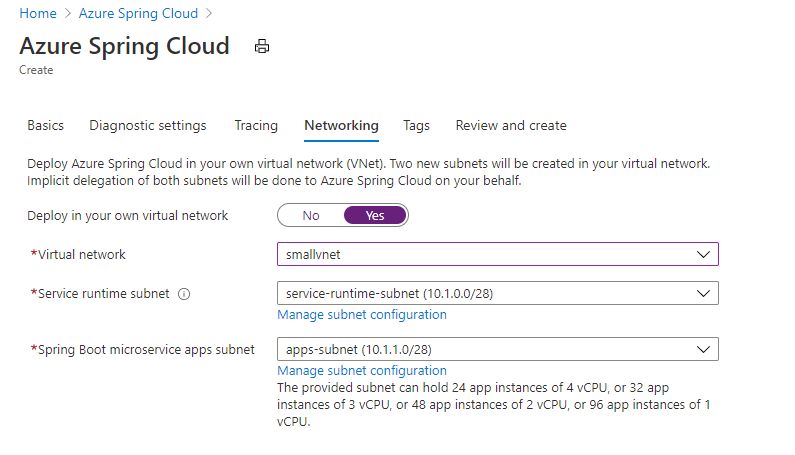
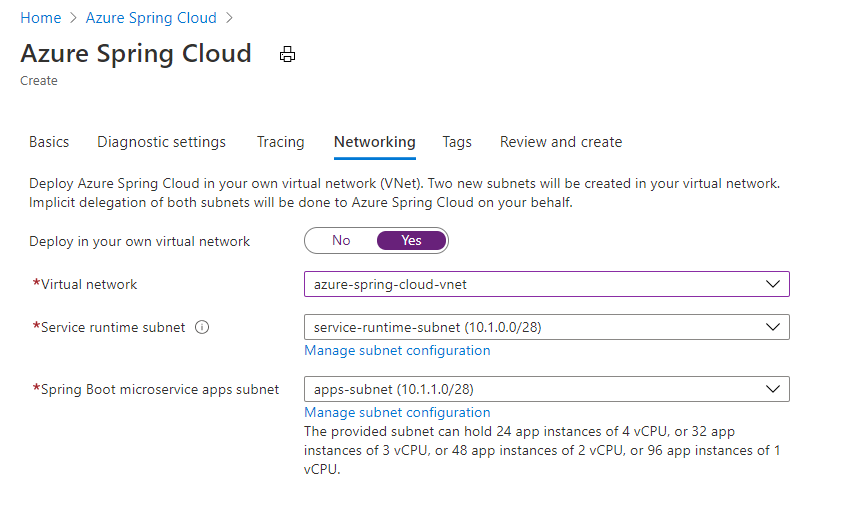
merge smaller subnet doc together with existing one

diff --git a/01-deploy-azure-spring-cloud-in-your-vnet.md b/01-deploy-azure-spring-cloud-in-your-vnet.md
@@ -29,7 +29,7 @@ The virtual network that you deploy your Azure Spring Cloud service instance to 
 
 - **Subnets**: The virtual network must include two subnets dedicated to an Azure Spring Cloud service instance: one for Service Runtime and one for your Spring Boot Microservice Applications. There is a one-to-one relationship between these subnets and an Azure Spring Cloud service instance. You cannot share multiple service instances across a single subnet. You must use new subnets for each service instances you deploy.
 
-- **Address space**: One CIDR block up to /28 for Service Runtime subnet and another CIDR block up to /24 for Spring Boot Microservice Applications subnet.
+- **Address space**: CIDR blocks up to **/28** for both Service Runtime subnet and Spring Boot Microservice Applications subnet.
 
 - **Route table**: The subnets must not have existing route table associated.
 
@@ -50,9 +50,9 @@ If you already have a virtual network to host Azure Spring Cloud service instanc
 
 3. Select **Next: IP Addresses**, and for **IPv4 address space**, enter 10.1.0.0/16.
 
-4. Select **Add subnet**, then enter *service-runtime-subnet* for Subnet name and *10.1.0.0/24* for **Subnet address range**, and select **Add**.
+4. Select **Add subnet**, then enter *service-runtime-subnet* for Subnet name and *10.1.0.0/28* for **Subnet address range**, and select **Add**.
 
-5. Select **Add subnet** again, then enter *apps-subnet* for Subnet name and *10.1.1.0/24* for **Subnet address range**, and select **Add**.
+5. Select **Add subnet** again, then enter *apps-subnet* for Subnet name and *10.1.1.0/28* for **Subnet address range**, and select **Add**.
 
 6. Select **Review + create**. Leave the rest as default and select **Create**.
 
@@ -109,13 +109,13 @@ az role assignment create \
     |Service runtime subnet                 |Select *service-runtime-subnet*                   |
     |Spring Boot microservice apps subnet   |Select *apps-subnet*                              |
 
-    ![](images/manage-virtual-network/creation-blade-networking-tab.png)
+    ![](images/manage-virtual-network/create-azure-spring-cloud-with-smaller-subnet-vnet.png)
 
 6. Select **Review and create**.
 
 7. Verify your specifications, and click **Create**.
 
-    ![](images/manage-virtual-network/creation-blade-verification.png)
+    ![](images/manage-virtual-network/create-with-smaller-subnet-validation.png)
 
 After the deployment, two additional resource groups will be created in your subscription, to host the network resources for the Azure Spring Cloud service instance.
 
@@ -132,6 +132,18 @@ Those network resources are connected to your virtual network created above.
   ![](images/manage-virtual-network/vnet-with-connected-device.png)
 
 **Important:** Those resource groups are fully managed by Azure Spring Cloud service. Please do **NOT** manually delete or modify any resource inside.
+
+## Limitations
+
+Small subnet range saves IP addresses, but brings limitations to the maximum number of App Instances the Azure Spring Cloud can hold. 
+
+| CIDR | Total IPs | Available IPs | Maximum app instances                                        |
+| ---- | --------- | ------------- | ------------------------------------------------------------ |
+| /28  | 16        | 8             | <p> App with 1 core:96 <br/> App with 2 cores: 48<br/>  App with 3 cores: 32 <br/> App with 4 cores: 24 </p> |
+| /27  | 32        | 24            | <p> App with 1 core: 228<br/> App with 2 cores: 144<br/>  App with 3 cores: 96 <br/>  App with 4 cores: 72</p> |
+| /26  | 64        | 56            | <p> App with 1 core: 500<br/> App with 2 cores: 336<br/>  App with 3 cores: 224<br/>  App with 4 cores: 168</p> |
+| /25  | 128       | 120           | <p> App with 1 core: 500<br> App with 2 cores:  500<br>  App with 3 cores:  480<br>  App with 4 cores: 360</p> |
+| /24  | 256       | 248           | <p> App with 1 core: 500<br/> App with 2 cores:  500<br/>  App with 3 cores: 500<br/>  App with 4 cores: 500</p> |
 
 ## Next guide ➡
 
